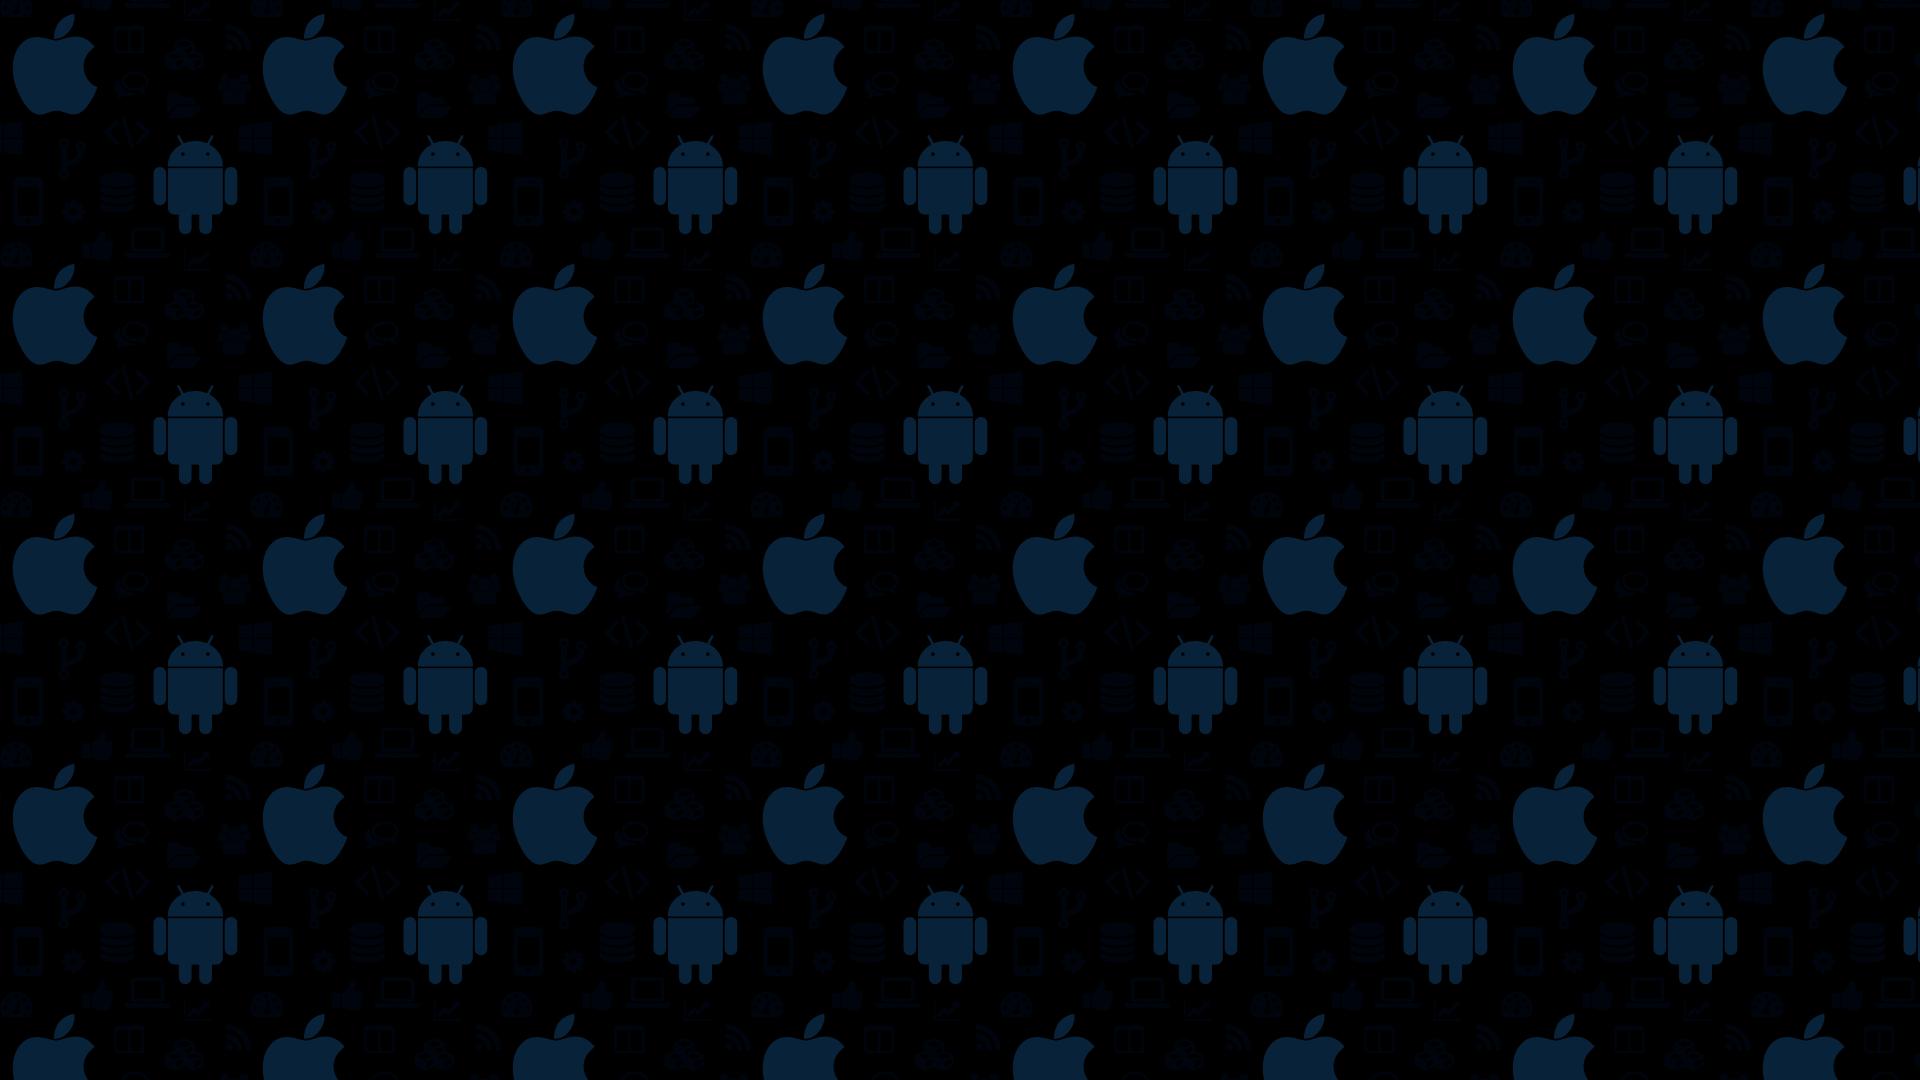
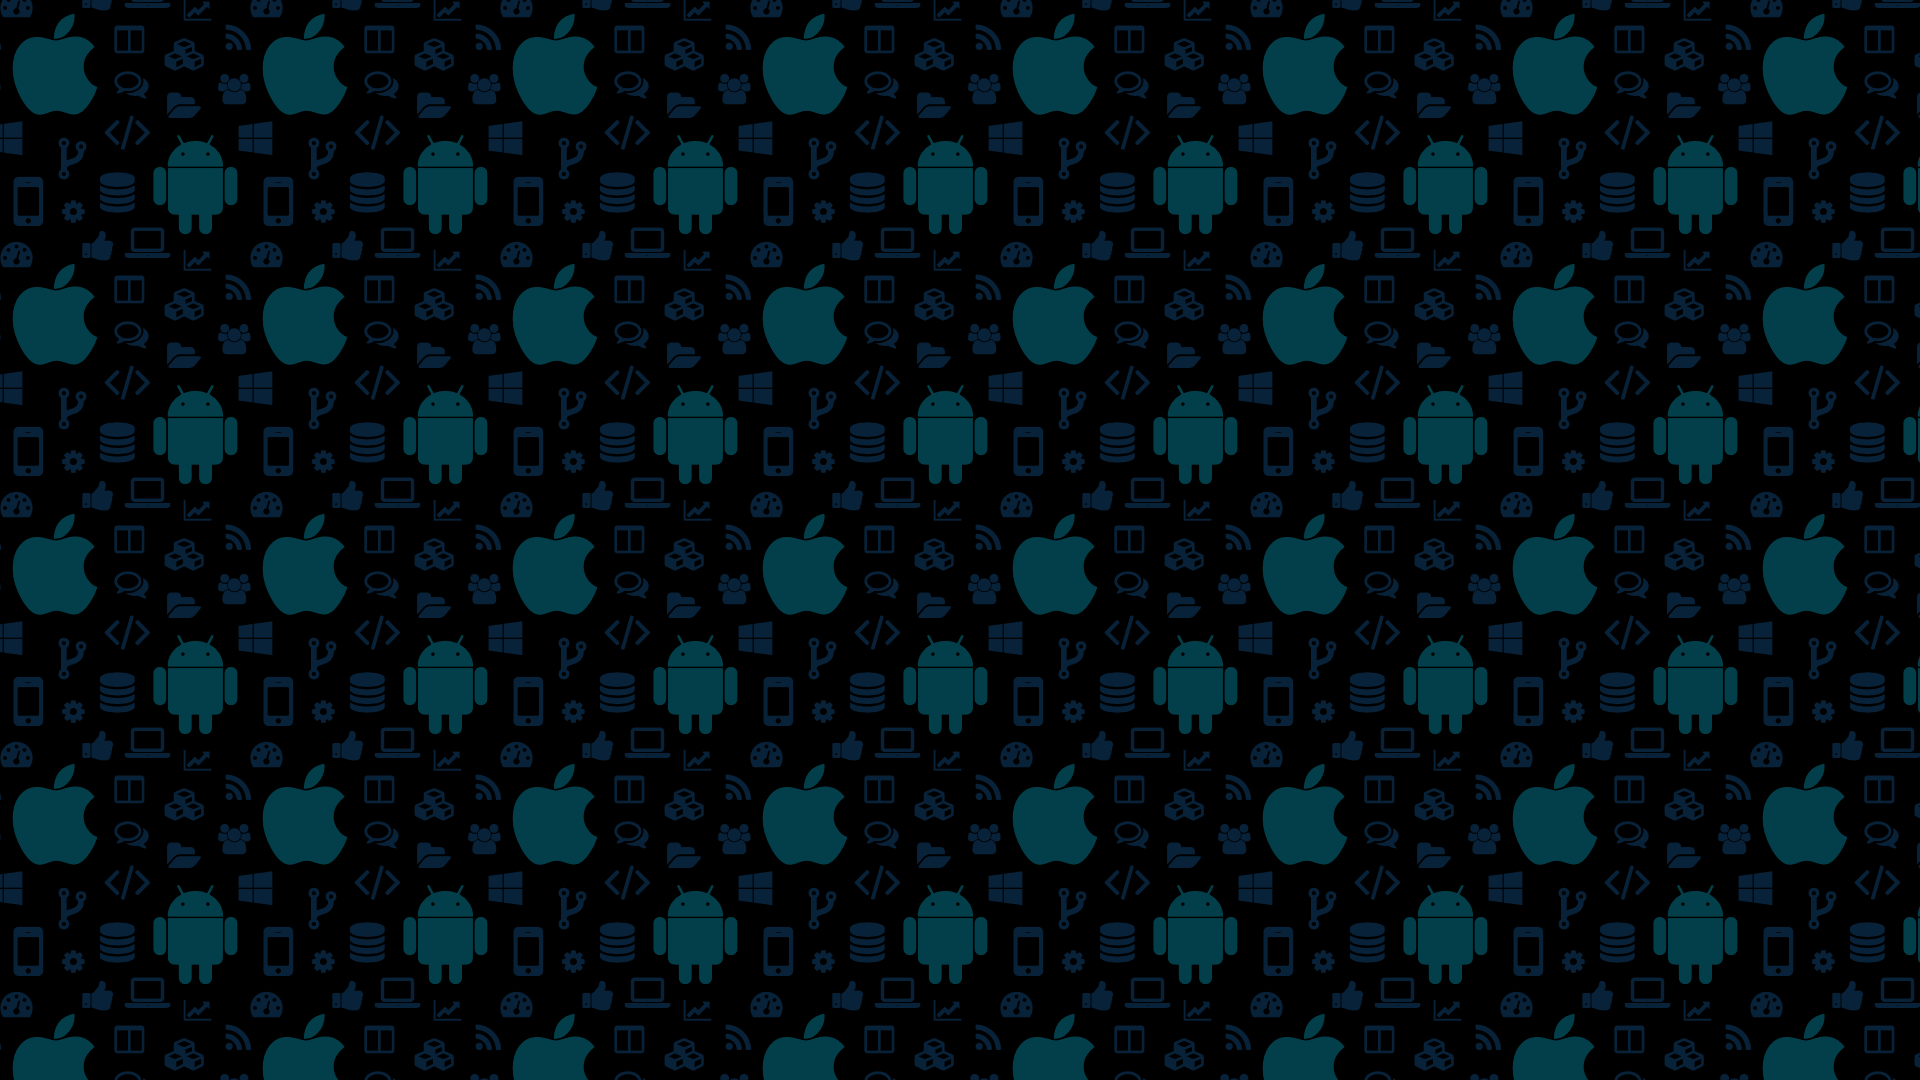
Changed Background Colors

diff --git a/README.md b/README.md
@@ -1,10 +1,10 @@
 # nathanwick
 Personal Website
 
-Author: Nathan Wick
-Purpose: Display Nathan's portfolio
-Languges: HTML, CSS, and JavaScript
-Tools: Visual Studio Code, GitHub, and Google Firebase Hosting
+Author: Nathan Wick.
+Purpose: Display Nathan's portfolio.
+Languges: HTML, CSS, and JavaScript.
+Tools: Visual Studio Code, GitHub, and Google Firebase Hosting.
 
 Home background pattern: https://patternico.com/#9LwiWmM8Tmt1jLpM
 Website colors: https://coolors.co/010d28-1768ac-06bee1-f5f5f5-ffffff
